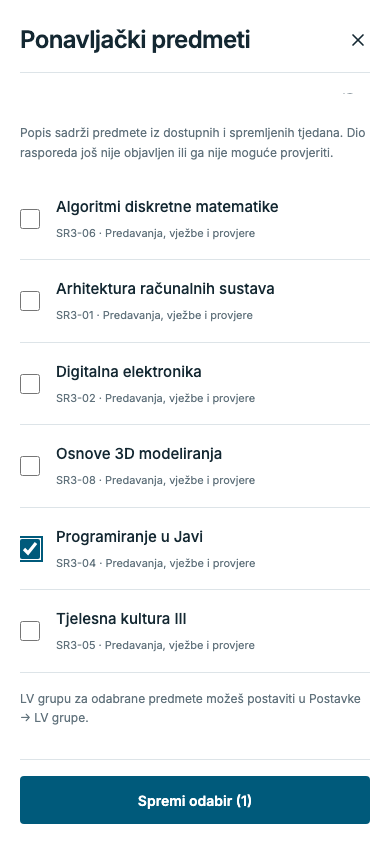
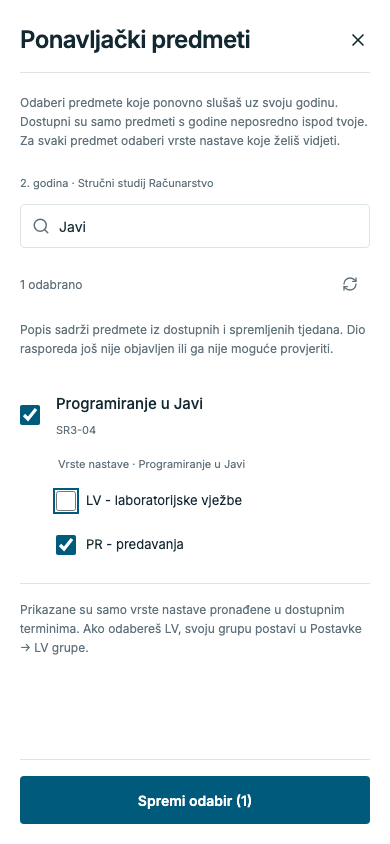
Document per-subject teaching types in refreshed 1.0.15 build

diff --git a/README.md b/README.md
@@ -45,7 +45,7 @@
 
 <img src="docs/17-offline-week.jpg" width="700" height="323" alt="Spremljeni tjedni raspored dostupan bez interneta, s oznakom nastavnog tjedna">
 
-**Ponavljački predmeti** — označi predmete s godine neposredno ispod tvoje i prikaži ih uz svoj raspored.
+**Ponavljački predmeti** — označi predmet s godine neposredno ispod tvoje i odaberi njegove objavljene vrste nastave: samo predavanja, samo vježbe ili željenu kombinaciju.
 
 <img src="docs/22-repeating-subjects.png" width="280" height="606" alt="Odabir ponavljačkih predmeta iz prethodne godine"> <img src="docs/23-repeating-in-schedule.png" width="280" height="606" alt="Programiranje u Javi prikazano uz treću godinu">
 
